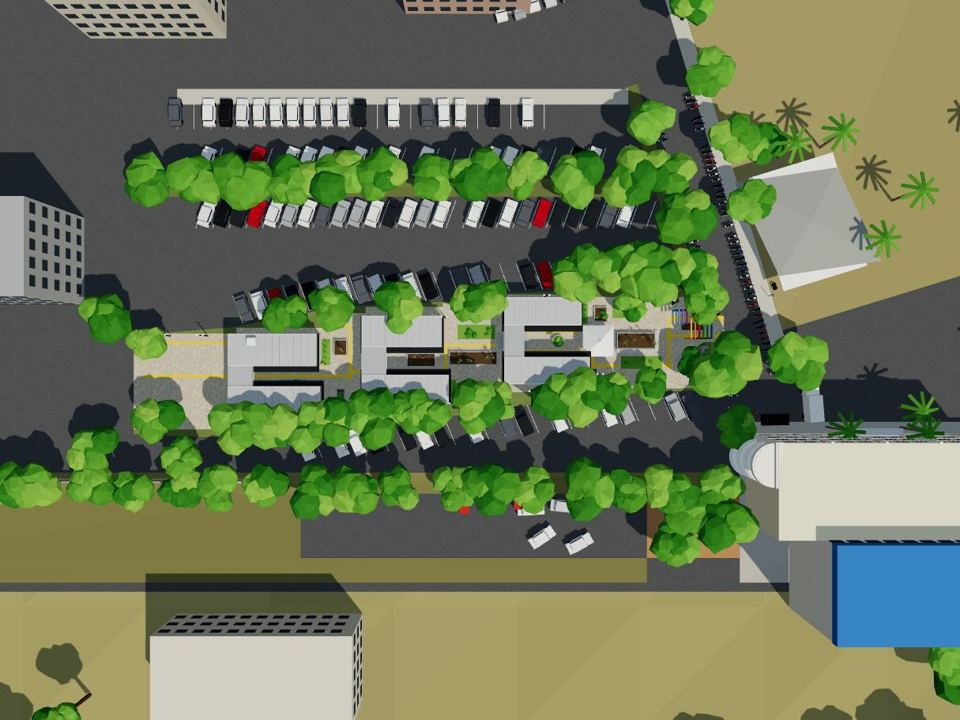
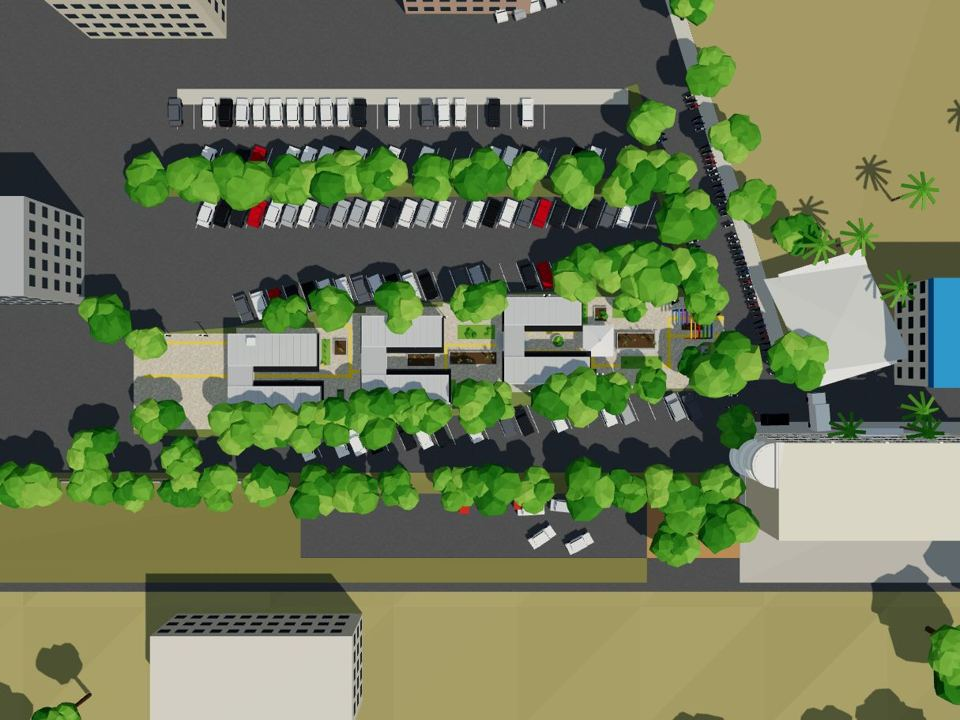
Put the mural building across from the arch exit and add front/right/left views
kairo clarified that photo 10 (mural building) is the main reference, seen from
across the street after leaving the arches, and photos 11 and 12 are the right
and left views from that spot.

Claude-Session: https://claude.ai/code/session_01EFPvFf6kvu8JGQXgxpDTGk

Changed region(s): [[0.75, 0.1222, 1.0, 0.6111], [0.75, 0.7333, 1.0, 0.9167]]

diff --git a/circuito-conhecimentos-3d/index.html b/circuito-conhecimentos-3d/index.html
@@ -285,7 +285,7 @@ bed(21,36,21.6,32,C.earthR);             // terra avermelhada (aérea, canto inf
 bed(-100,21,32,36,'#7d7a4c');
 roadBox(12,48,-6.4,-4.2,0.14,'#6d7446');     // canteiro do lado esquerdo da rua de saída
 roadBox(-4,96,4.1,6.6,0.15,'#bcb8ad');       // calçada do lado direito
-roadBox(3,96,6.6,80,0.14,'#9a8f62');        // terreno atrás da calçada
+roadBox(-7,96,6.6,80,0.14,'#9a8f62');        // terreno atrás da calçada
 bed(36,90,10,36,'#b6b2a8',0.15);         // calçada/pátio do prédio das varandas
 bed(-100,-35,21.6,32,'#7d7a4c');
 
@@ -631,7 +631,7 @@ B.box(73,0.15,2.5,-18.5,0,-42.6,'#bdb9ae');
 car(2.2,24,0.05,'#f2f2f0'); car(7.5,23.5,-0.1,'#c9ccd0'); car(4,28.5,0.6,'#f2f2f0'); car(10,29.5,0.5,'#e6e6e3');
 B.box(1.6,0.9,2.4,-8.5,0.15,23.5,'#c0392b'); B.box(2.6,0.9,1.6,0.8,0.15,23.2,'#c0392b');
 // caminhão-baú e carro preto na frente do prédio das varandas (foto 11)
-car(47,6.8,PI/2+0.08,'#f1f1ef','truck'); car(41.5,9.6,0.02,'#16181b','sedan'); moto(37.8,8.6,0.3,'#c21d22'); moto(36.4,9.4,-0.2,'#d9d9d6');
+car(48,8.2,PI/2+0.08,'#f1f1ef','truck'); car(41.5,9.6,0.02,'#16181b','sedan'); moto(37.8,8.6,0.3,'#c21d22'); moto(36.4,9.4,-0.2,'#d9d9d6');
 
 // ---------- motos ----------
 const MOTO_COLS=['#b3161b','#1c1d1f','#1c1d1f','#e9e9e7','#c21d22','#2b2f36','#d9d9d6','#1f3f8e'];
@@ -685,8 +685,9 @@ for(const[x,z]of[RP(19,-2.6),RP(63,1.5)]){B.add(new THREE.ConeGeometry(0.2,0.6,8
   }
   B.add(new THREE.CylinderGeometry(3.2,3.2,0.9,24,1,false,PI,PI),white,[bx,0.15+nf*fh+0.1,bz]);
   // prédio de fundo com faixa azul
-  B.box(24,17,14,56,0.15,33,'#e9e4d6',0,.01); B.box(24.2,1.6,14.2,56,15.6,33,'#3d7fc8');
-  for(let f=0;f<5;f++)for(let x=45;x<68;x+=2.6)B.box(1.8,1.2,0.1,x,1.2+f*3.2,25.95,'#34414c');
+  // (aparece atrás do telhado dos murais na foto 10 e à esquerda na foto 11)
+  B.box(20,11,16,71,0.15,-4,'#e9e4d6',0,.01); B.box(20.2,1.4,16.2,71,9.8,-4,'#2f8fd4');
+  for(let f=0;f<3;f++)for(let z=-11;z<4;z+=2.6)B.box(0.1,1.2,1.8,60.95,1.3+f*3.2,z,'#34414c');
   // passarela coberta de concreto (à esquerda na foto)
   B.box(14,0.5,6,79,3.8,15,'#cfcfca'); for(const x of[73,79,85]) B.box(0.5,3.8,0.5,x,0.15,15,'#cfcfca');
   palm(50,10.8,7.5); palm(62,10.9,8.5);
@@ -722,7 +723,7 @@ const muralTex2=canvasTex(512,256,(g,w,h)=>{
 {
   // referencial da rua: x local = afastamento da rua, z local = -distância ao longo da rua
   const G=roadGroup(0,8); B.push(G.position.x,0,G.position.z,ROAD_TH);
-  const x0=0,x1=12,z0=-26.8,z1=-16, wh=3.5;
+  const x0=0,x1=12,z0=-11,z1=0, wh=3.5;   // em frente à saída do arco, do outro lado da rua (foto 10)
   B.box(x1-x0,wh,z1-z0,(x0+x1)/2,0.15,(z0+z1)/2,'#efe5c6',0,.01);
   decal(muralTex,z1-z0,wh-0.3,x0-0.03,0.15+(wh-0.3)/2,(z0+z1)/2,FACE.nx,{parent:G});
   // ala recuada à direita
@@ -730,7 +731,7 @@ const muralTex2=canvasTex(512,256,(g,w,h)=>{
   // telhado de 4 águas com beiral branco
   const rw=x1-x0+1.8, rd=(z1+6)-z0+1.8;
   B.box(rw,0.22,rd,(x0+x1)/2,0.15+wh,(z0+z1+6)/2,'#f7f6f1');
-  B.add(new THREE.ConeGeometry(1,1.2,4),'#9a9d99',[(x0+x1)/2,0.15+wh+0.22+0.6,(z0+z1+6)/2],[0,PI/4,0],[rw*0.7,1,rd*0.7]);
+  B.add(new THREE.ConeGeometry(1,1.2,4),'#c4c6c2',[(x0+x1)/2,0.15+wh+0.22+0.6,(z0+z1+6)/2],[0,PI/4,0],[rw*0.7,1,rd*0.7]);
   // calhas/canos
   B.cyl(0.06,0.06,wh,6,x0-0.1,0.15,z1-0.3,'#d9d4c4');
   // placa "reservado para motocicletas"
@@ -740,9 +741,9 @@ const muralTex2=canvasTex(512,256,(g,w,h)=>{
     g.beginPath();g.moveTo(80,140);g.lineTo(120,95);g.lineTo(160,95);g.lineTo(176,140);g.stroke();
     g.fillStyle='#1f5aa6';g.textAlign='center';g.font='bold 30px Arial';g.fillText('RESERVADO',128,240);g.font='bold 24px Arial';g.fillText('PARA MOTOCICLETAS',128,280);
   });
-  B.cyl(0.04,0.04,2.4,6,-2,0.15,-9,'#777'); decal(motoSign,0.55,0.7,-2.04,2.25,-9,FACE.nx,{parent:G});
-  palm(6,-30,8); palm(13,-29.5,9); palm(15,-12,7.5); tree(2,-32,7,3.5,'flat');
-  for(let i=0;i<2;i++) B.add(blobGeo(0.4,0,.1),'#2a2a2a',[-0.7,0.5,-10.5+i*0.6],[0,0,0],[1,1.2,1]); // sacos de lixo
+  B.cyl(0.04,0.04,2.4,6,-1.6,0.15,5.2,'#777'); decal(motoSign,0.55,0.7,-1.64,2.25,5.2,FACE.nx,{parent:G});
+  palm(5,-14,8); palm(11,-13.5,9); palm(15,-4,7.5); tree(3,-17,7,3.5,'flat');
+  for(let i=0;i<2;i++) B.add(blobGeo(0.4,0,.1),'#2a2a2a',[-0.9,0.5,5.8+i*0.6],[0,0,0],[1,1.2,1]); // sacos de lixo
   B.pop();
 }
 
@@ -814,7 +815,9 @@ const walk=new PointerLockControls(camera,document.body);
 
 const yawLook=(p,yawDeg,y=1.9)=>{const a=yawDeg*PI/180;return[p[0]+Math.sin(a)*40,y,p[2]-Math.cos(a)*40];};
 const VIEWS={
-  ultima:  {label:'Última referência',   pos:[34.2,1.6,-1.4],  look:yawLook([34.2,1.6,-1.4],-24), fov:55},
+  frente:  {label:'Frente (foto 10)',     pos:[32.9,1.6,-4.6],  look:[44,2.6,-4.4],  fov:62},
+  direita: {label:'Direita (foto 11)',    pos:[37.0,1.6,-2.5],  look:[45,5.5,14],    fov:62},
+  esquerda:{label:'Esquerda (foto 12)',   pos:[34.2,1.6,-1.4],  look:yawLook([34.2,1.6,-1.4],-24), fov:55},
   entrada: {label:"Entrada (arco)",      pos:[37.4,1.6,-4.6],  look:[26,2.2,-5.6],  fov:58},
   panorama:{label:'Rua do arco',         pos:[37.2,1.6,1.5],   look:[20,1.8,-6],    fov:70},
   aerea:   {label:'Vista aérea',         pos:[-6,125,0.1],     look:[-6,0,0],       fov:50},
@@ -822,8 +825,6 @@ const VIEWS={
   patio13: {label:'Blocos 1 e 3',        pos:[26.5,1.6,-0.2],  look:[0,2.2,-3],       fov:62},
   blocos45:{label:'Blocos 4 e 5',        pos:[4.5,1.6,-3.0],   look:[-14,1.8,0.8], fov:66},
   bloco8:  {label:'Bloco 8',             pos:[-61,1.6,8.5],    look:[-45,2,1.2],    fov:66},
-  varandas:{label:'Prédio das varandas', pos:[50.5,1.6,-3.5],  look:[41,5.5,14],      fov:66},
-  murais:  {label:'Prédio dos murais',   pos:RP(19,-1.5).length?[RP(19,-1.5)[0],1.6,RP(19,-1.5)[1]]:0, look:[RP(20,8)[0],2.2,RP(20,8)[1]], fov:62},
 };
 let current='';
 function setView(k){
@@ -865,7 +866,7 @@ function frame(){
   requestAnimationFrame(frame);
 }
 const qs=new URLSearchParams(location.search);
-setView(qs.get('view')||'ultima');
+setView(qs.get('view')||'frente');
 document.getElementById('load').remove();
 if(qs.has('noui')){document.getElementById('ui').style.display='none';hint.style.display='none';}
 frame();

diff --git a/circuito-conhecimentos-3d/README.md b/circuito-conhecimentos-3d/README.md
@@ -11,7 +11,7 @@ python3 -m http.server 8000
 # depois abra http://localhost:8000
 ```
 
-A cena abre na **Última referência** (de costas para a entrada do Circuito, com o arco à esquerda e a rua das motos à frente). Os botões do painel levam às outras vistas, e **Caminhar** ativa o modo primeira pessoa (W A S D, Shift corre, Esc sai). Também dá para abrir direto numa vista com `?view=`: `ultima`, `entrada`, `panorama`, `aerea`, `geral`, `patio13`, `blocos45`, `bloco8`, `varandas`, `murais`.
+A cena abre na vista **Frente (foto 10)**: quem sai pelos arcos coloridos, de costas para o Circuito, olhando o prédio dos murais do outro lado da rua. **Direita (foto 11)** e **Esquerda (foto 12)** são as vistas laterais a partir desse mesmo ponto: o prédio das varandas redondas e a rua das motos com o arco no canto. Os outros botões levam às demais fotos, e **Caminhar** ativa o modo primeira pessoa (W A S D, Shift corre, Esc sai). Também dá para abrir direto numa vista com `?view=`: `frente`, `direita`, `esquerda`, `entrada`, `panorama`, `aerea`, `geral`, `patio13`, `blocos45`, `bloco8`.
 
 ## Escala e medidas
 
@@ -24,7 +24,8 @@ A cena abre na **Última referência** (de costas para a entrada do Circuito, co
 | Módulo B (blocos 4, 5, 6) | x −24,5 a −10,9 |
 | Módulo C (blocos 7, 8) | x −45,4 a −31 |
 | Arco arco-íris | 9 pórticos a cada 0,62 m, vão de 4,5 m, 3,8 a 4,35 m de altura |
-| Rua de saída (foto 12) | 8 m de largura, 17° à esquerda do eixo noroeste |
+| Rua em frente ao arco (fotos 10 a 12) | 8 m de largura, sai da ponta da ilha para o noroeste, 17° à esquerda |
+| Prédio dos murais | 12 m × 17 m (com a ala recuada), 3,5 m de parede, em frente à saída do arco |
 
 Eixos: +X aponta para o arco de entrada (nordeste), +Z para a rua sudeste e o prédio das varandas.
 
